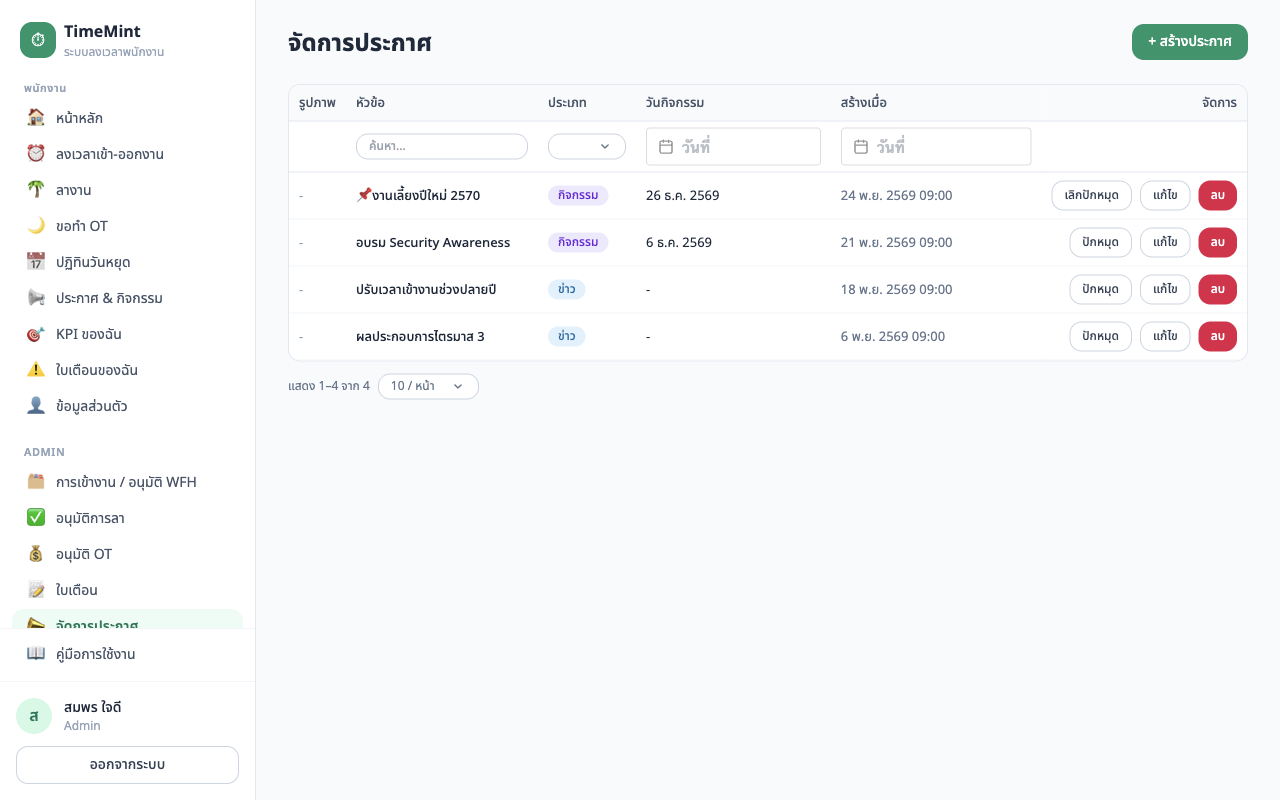
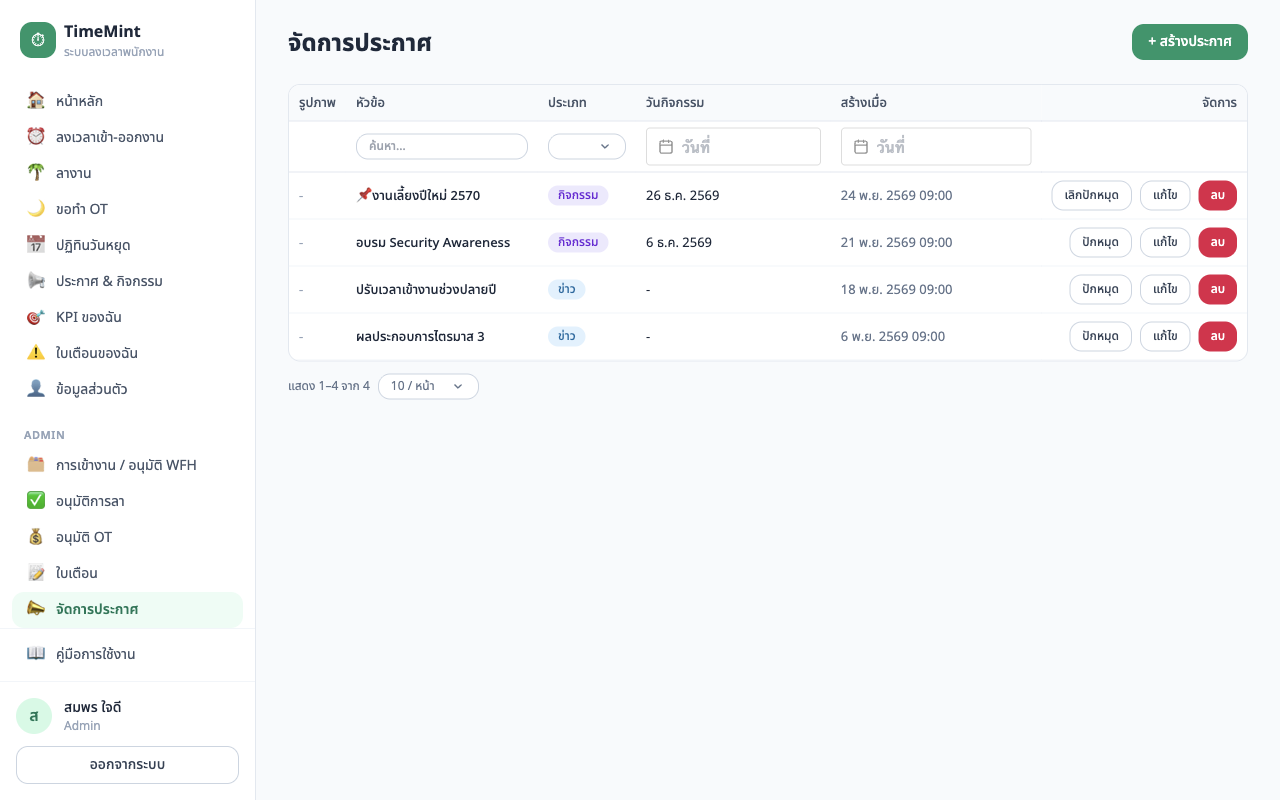
fix(layout): sidebar scrolls the current page's item into view after in-app navigation too; retake 6 shots (#126)

Changed region(s): [[0.0, 0.0938, 0.1562, 0.7812]]

diff --git a/frontend/layouts/manual.vue b/frontend/layouts/manual.vue
@@ -8,9 +8,9 @@ const mobileOpen = ref(false)
 watch(() => route.path, () => (mobileOpen.value = false))
 // long menus scroll: bring the current page's item into view (it can sit under the pinned bottom item)
 const nav = ref(null)
-const revealActive = () => nextTick(() => nav.value?.querySelector('[aria-current="page"]')?.scrollIntoView({ block: 'nearest' }))
+const revealActive = () => requestAnimationFrame(() => nav.value?.querySelector('[data-active]')?.scrollIntoView({ block: 'nearest' }))
 onMounted(revealActive)
-watch(() => route.path, revealActive)
+watch([() => route.path, () => auth.user], revealActive, { flush: 'post' })
 const groups = computed(() => visibleManual(auth))
 const isActive = (slug) => route.path === `/manual/${slug}`
 </script>
@@ -29,7 +29,7 @@ const isActive = (slug) => route.path === `/manual/${slug}`
         </NuxtLink>
         <div v-for="g in groups" :key="g.key">
           <p class="mb-1 px-3 text-[11px] font-semibold uppercase tracking-wider text-slate-400">{{ g.title }}</p>
-          <NuxtLink v-for="t in g.topics" :key="t.slug" :to="`/manual/${t.slug}`" class="flex items-center gap-3 rounded-xl px-3 py-2 text-sm transition" :class="isActive(t.slug) ? 'bg-brand-50 font-semibold text-brand-700' : 'text-slate-600 hover:bg-slate-50'">
+          <NuxtLink v-for="t in g.topics" :key="t.slug" :to="`/manual/${t.slug}`" class="flex items-center gap-3 rounded-xl px-3 py-2 text-sm transition" :data-active="isActive(t.slug) || undefined" :class="isActive(t.slug) ? 'bg-brand-50 font-semibold text-brand-700' : 'text-slate-600 hover:bg-slate-50'">
             <span class="w-5 text-center">{{ t.icon }}</span>{{ t.title }}
           </NuxtLink>
         </div>

diff --git a/frontend/layouts/default.vue b/frontend/layouts/default.vue
@@ -6,9 +6,9 @@ const mobileOpen = ref(false)
 watch(() => route.path, () => (mobileOpen.value = false))
 // long menus scroll: bring the current page's item into view (it can sit under the pinned bottom item)
 const nav = ref(null)
-const revealActive = () => nextTick(() => nav.value?.querySelector('[aria-current="page"]')?.scrollIntoView({ block: 'nearest' }))
+const revealActive = () => requestAnimationFrame(() => nav.value?.querySelector('[data-active]')?.scrollIntoView({ block: 'nearest' }))
 onMounted(revealActive)
-watch(() => route.path, revealActive)
+watch([() => route.path, () => auth.user], revealActive, { flush: 'post' })
 
 // Sidebar menu. roles: who sees the item (executive sees everything).
 const groups = [
@@ -62,7 +62,7 @@ function logout() { auth.logout(); navigateTo('/login') }
       <nav ref="nav" class="flex-1 space-y-5 overflow-y-auto px-3 pb-4">
         <div v-for="g in visible" :key="g.title">
           <p class="mb-1 px-3 text-[11px] font-semibold uppercase tracking-wider text-slate-400">{{ g.title }}</p>
-          <NuxtLink v-for="i in g.items" :key="i.to" :to="i.to" class="flex items-center gap-3 rounded-xl px-3 py-2 text-sm transition" :class="isActive(i.to) ? 'bg-brand-50 font-semibold text-brand-700' : 'text-slate-600 hover:bg-slate-50'">
+          <NuxtLink v-for="i in g.items" :key="i.to" :to="i.to" class="flex items-center gap-3 rounded-xl px-3 py-2 text-sm transition" :data-active="isActive(i.to) || undefined" :class="isActive(i.to) ? 'bg-brand-50 font-semibold text-brand-700' : 'text-slate-600 hover:bg-slate-50'">
             <span class="w-5 text-center">{{ i.icon }}</span>{{ i.label }}
           </NuxtLink>
         </div>
